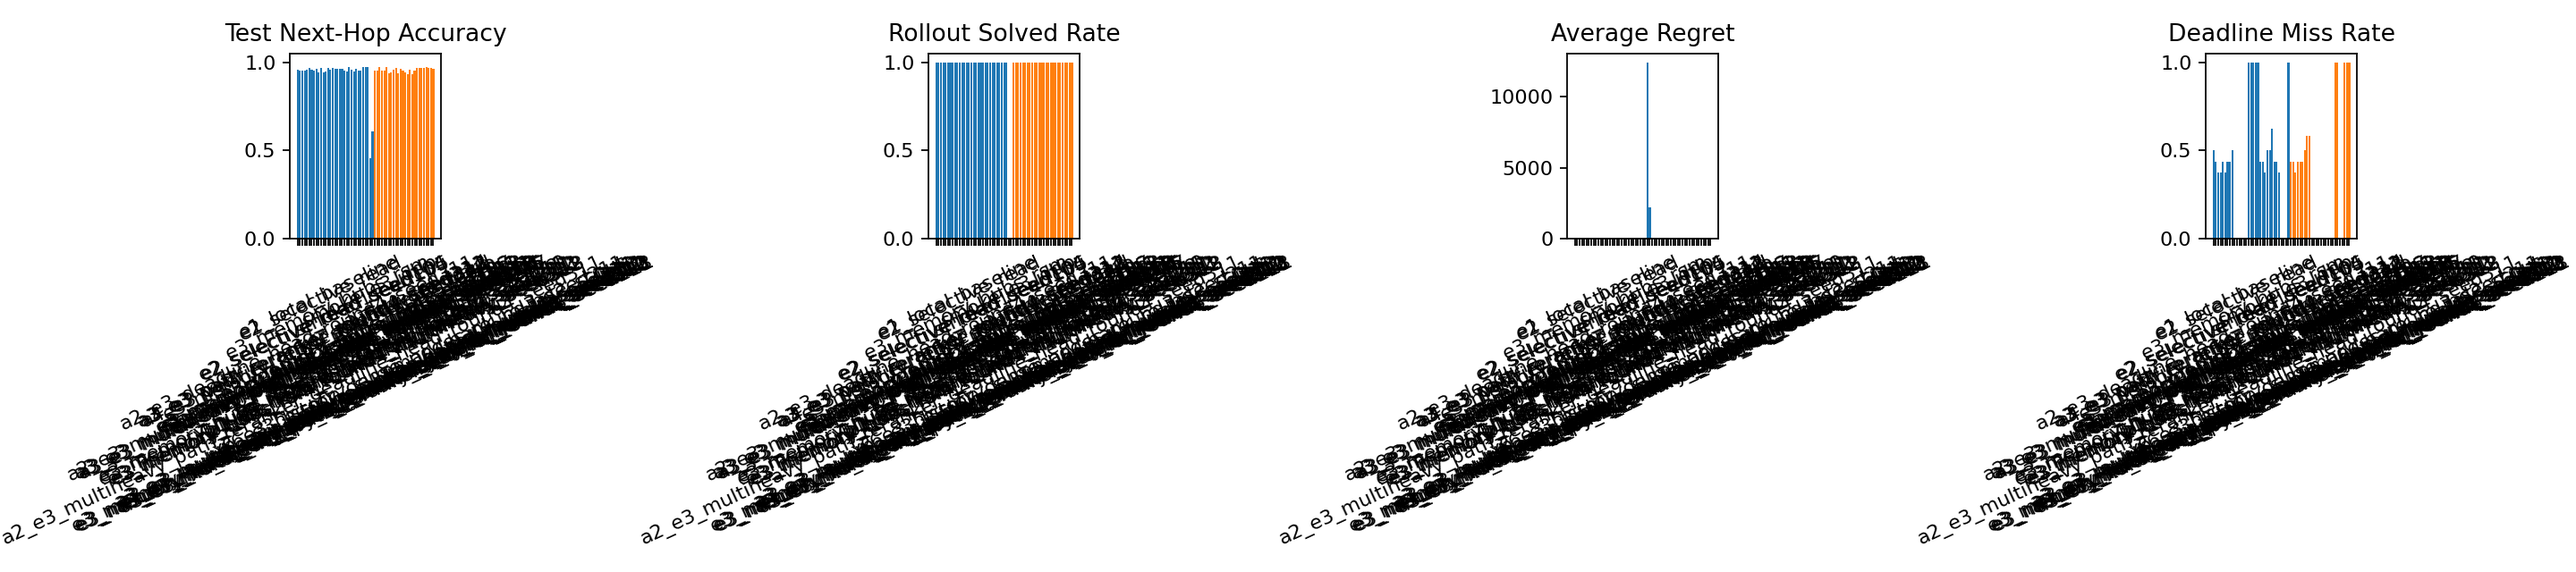
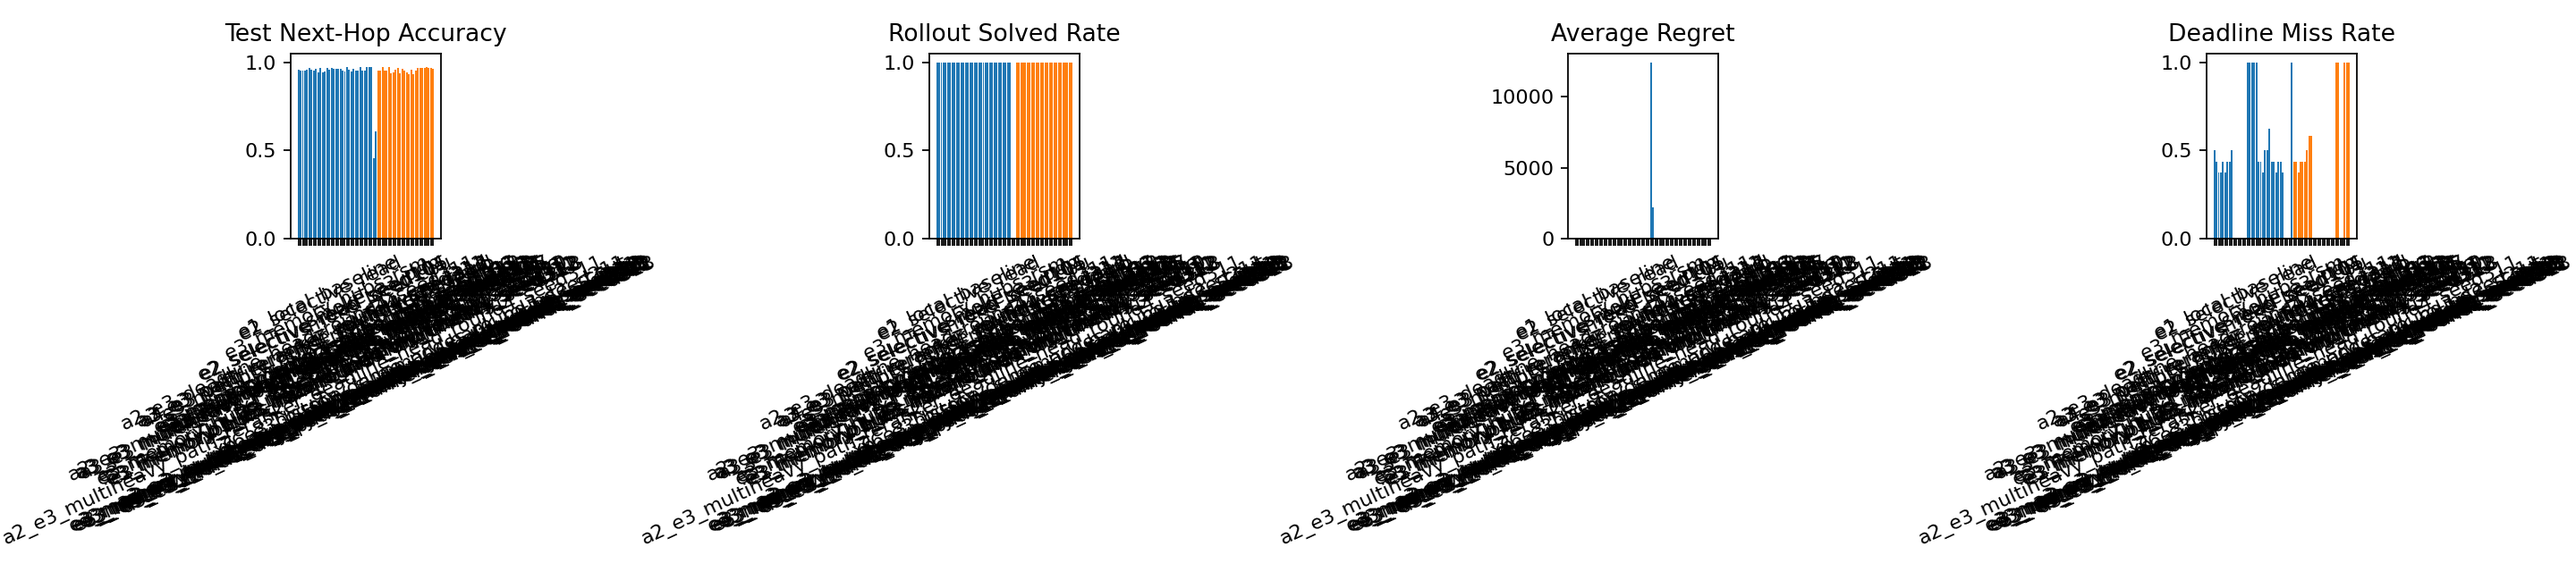
Reject tighter multiheavy training deadlines

diff --git a/scripts/plot_round5_results.py b/scripts/plot_round5_results.py
@@ -41,10 +41,10 @@ def _summary_frame(pairs: list[tuple[int, str, str]]) -> pd.DataFrame:
     return pd.concat([frame, means[frame.columns]], ignore_index=True)
 
 
-def _plot_compare(frame: pd.DataFrame, output_name: str) -> None:
+def _plot_compare(frame: pd.DataFrame, output_name: str, variant_label: str) -> None:
     plot_df = frame[frame["seed"] != "mean"].copy()
     baseline = plot_df[plot_df["variant"] == "Multiheavy"].reset_index(drop=True)
-    variant = plot_df[plot_df["variant"] == "TailSelect"].reset_index(drop=True)
+    variant = plot_df[plot_df["variant"] == variant_label].reset_index(drop=True)
 
     fig, axes = plt.subplots(1, 4, figsize=(18, 4))
     x = list(range(len(baseline)))
@@ -73,7 +73,7 @@ def _plot_compare(frame: pd.DataFrame, output_name: str) -> None:
     axes[3].set_xticks(x, labels)
     axes[3].set_ylim(0.0, 1.05)
 
-    axes[0].legend(["Multiheavy", "TailSelect"], loc="best")
+    axes[0].legend(["Multiheavy", variant_label], loc="best")
     fig.tight_layout()
     fig.savefig(PLOTS / output_name, dpi=160)
     plt.close(fig)
@@ -81,15 +81,29 @@ def _plot_compare(frame: pd.DataFrame, output_name: str) -> None:
 
 def main() -> None:
     PLOTS.mkdir(parents=True, exist_ok=True)
-    compare = _summary_frame(
+    tail_select = _summary_frame(
         [
             (311, "e3_memory_hubs_rsm_round4_multiheavy_seed311", "e3_memory_hubs_rsm_round5_multiheavy_tail_select_seed311"),
             (312, "e3_memory_hubs_rsm_round4_multiheavy_seed312", "e3_memory_hubs_rsm_round5_multiheavy_tail_select_seed312"),
             (313, "e3_memory_hubs_rsm_round4_multiheavy_seed313", "e3_memory_hubs_rsm_round5_multiheavy_tail_select_seed313"),
         ]
     )
-    compare.to_csv(PLOTS / "round5_multiheavy_tail_select_vs_multiheavy.csv", index=False)
-    _plot_compare(compare, "round5_multiheavy_tail_select_vs_multiheavy.png")
+    tail_select.to_csv(PLOTS / "round5_multiheavy_tail_select_vs_multiheavy.csv", index=False)
+    _plot_compare(tail_select, "round5_multiheavy_tail_select_vs_multiheavy.png", "TailSelect")
+
+    tight_train = _summary_frame(
+        [
+            (311, "e3_memory_hubs_rsm_round4_multiheavy_seed311", "e3_memory_hubs_rsm_round5_multiheavy_tighttrain_seed311"),
+            (312, "e3_memory_hubs_rsm_round4_multiheavy_seed312", "e3_memory_hubs_rsm_round5_multiheavy_tighttrain_seed312"),
+            (313, "e3_memory_hubs_rsm_round4_multiheavy_seed313", "e3_memory_hubs_rsm_round5_multiheavy_tighttrain_seed313"),
+        ]
+    )
+    tight_train["variant"] = tight_train["variant"].replace({"TailSelect": "TightTrain"})
+    tight_train.loc[(tight_train["seed"] == "mean") & (tight_train["variant"] == "TightTrain"), "experiment"] = (
+        "TightTrain-mean"
+    )
+    tight_train.to_csv(PLOTS / "round5_multiheavy_tighttrain_vs_multiheavy.csv", index=False)
+    _plot_compare(tight_train, "round5_multiheavy_tighttrain_vs_multiheavy.png", "TightTrain")
 
 
 if __name__ == "__main__":

diff --git a/src/gnn3/train/config.py b/src/gnn3/train/config.py
@@ -21,6 +21,9 @@ class BenchmarkConfig:
     val_seed_offset: int = 10_000
     test_seed_offset: int = 20_000
     hidden_corridor: HiddenCorridorConfig = field(default_factory=HiddenCorridorConfig)
+    train_hidden_corridor_overrides: dict[str, Any] = field(default_factory=dict)
+    val_hidden_corridor_overrides: dict[str, Any] = field(default_factory=dict)
+    test_hidden_corridor_overrides: dict[str, Any] = field(default_factory=dict)
 
 
 @dataclass(frozen=True)
@@ -79,7 +82,22 @@ def _benchmark_from_dict(data: dict[str, Any]) -> BenchmarkConfig:
         val_seed_offset=int(data.get("val_seed_offset", 10_000)),
         test_seed_offset=int(data.get("test_seed_offset", 20_000)),
         hidden_corridor=hidden_corridor,
+        train_hidden_corridor_overrides=_hidden_corridor_overrides_from_dict(data.get("train_hidden_corridor_overrides", {})),
+        val_hidden_corridor_overrides=_hidden_corridor_overrides_from_dict(data.get("val_hidden_corridor_overrides", {})),
+        test_hidden_corridor_overrides=_hidden_corridor_overrides_from_dict(data.get("test_hidden_corridor_overrides", {})),
     )
+
+
+def _hidden_corridor_overrides_from_dict(data: dict[str, Any]) -> dict[str, Any]:
+    overrides: dict[str, Any] = {}
+    for key, value in data.items():
+        if key == "seed":
+            continue
+        if isinstance(value, list):
+            overrides[key] = tuple(value)
+        else:
+            overrides[key] = value
+    return overrides
 
 
 def hidden_corridor_config_for_split(benchmark: BenchmarkConfig, split: str) -> HiddenCorridorConfig:
@@ -88,11 +106,17 @@ def hidden_corridor_config_for_split(benchmark: BenchmarkConfig, split: str) -> 
         "val": benchmark.val_seed_offset,
         "test": benchmark.test_seed_offset,
     }
+    split_overrides = {
+        "train": benchmark.train_hidden_corridor_overrides,
+        "val": benchmark.val_hidden_corridor_overrides,
+        "test": benchmark.test_hidden_corridor_overrides,
+    }
     if split not in split_offsets:
         raise ValueError(f"Unknown benchmark split: {split}")
     return replace(
         benchmark.hidden_corridor,
         seed=benchmark.hidden_corridor.seed + split_offsets[split],
+        **split_overrides[split],
     )
 
 

diff --git a/tests/test_config_split_overrides.py b/tests/test_config_split_overrides.py
@@ -1,0 +1,32 @@
+from __future__ import annotations
+
+from gnn3.data.hidden_corridor import HiddenCorridorConfig
+from gnn3.train.config import BenchmarkConfig, hidden_corridor_config_for_split
+
+
+def test_hidden_corridor_split_overrides_apply_only_to_requested_split() -> None:
+    benchmark = BenchmarkConfig(
+        hidden_corridor=HiddenCorridorConfig(
+            seed=311,
+            deadline_mode="oracle_calibrated",
+            deadline_slack_ratio_range=(0.05, 0.15),
+            deadline_slack_abs_range=(0.25, 1.0),
+        ),
+        train_hidden_corridor_overrides={
+            "deadline_slack_ratio_range": (0.02, 0.08),
+            "deadline_slack_abs_range": (0.1, 0.5),
+        },
+    )
+
+    train_cfg = hidden_corridor_config_for_split(benchmark, "train")
+    val_cfg = hidden_corridor_config_for_split(benchmark, "val")
+    test_cfg = hidden_corridor_config_for_split(benchmark, "test")
+
+    assert train_cfg.seed == 311
+    assert val_cfg.seed == 10_311
+    assert test_cfg.seed == 20_311
+
+    assert train_cfg.deadline_slack_ratio_range == (0.02, 0.08)
+    assert train_cfg.deadline_slack_abs_range == (0.1, 0.5)
+    assert val_cfg.deadline_slack_ratio_range == (0.05, 0.15)
+    assert test_cfg.deadline_slack_abs_range == (0.25, 1.0)

diff --git a/reports/continuation_report_round5.md b/reports/continuation_report_round5.md
@@ -2,20 +2,28 @@
 
 ## Scope
 
-This pass tested the smallest non-reranker exploit change suggested by round four: keep the robust plain `multiheavy` recipe fixed, but change checkpoint selection to weight tail regret and deadline behavior more heavily than solved rate or local decision accuracy.
+This pass tested two bounded non-reranker exploit changes on top of the robust plain `multiheavy` recipe:
+
+1. risk-biased checkpoint selection
+2. tighter training-only oracle-calibrated deadlines with fixed validation and test manifests
 
 Key artifacts:
 
 - [round5_multiheavy_tail_select_vs_multiheavy.csv](/home/catid/gnn3/reports/plots/round5_multiheavy_tail_select_vs_multiheavy.csv)
 - [round5_multiheavy_tail_select_vs_multiheavy.png](/home/catid/gnn3/reports/plots/round5_multiheavy_tail_select_vs_multiheavy.png)
+- [round5_multiheavy_tighttrain_vs_multiheavy.csv](/home/catid/gnn3/reports/plots/round5_multiheavy_tighttrain_vs_multiheavy.csv)
+- [round5_multiheavy_tighttrain_vs_multiheavy.png](/home/catid/gnn3/reports/plots/round5_multiheavy_tighttrain_vs_multiheavy.png)
 - [experiment_summary.csv](/home/catid/gnn3/reports/plots/experiment_summary.csv)
 
 Implementation changes:
 
 - configurable checkpoint-selection weights in [config.py](/home/catid/gnn3/src/gnn3/train/config.py)
 - selection-score wiring in [trainer.py](/home/catid/gnn3/src/gnn3/train/trainer.py)
+- split-specific train/val/test hidden-corridor overrides in [config.py](/home/catid/gnn3/src/gnn3/train/config.py)
 - matched round-five configs in [e3_memory_hubs_rsm_round5_multiheavy_tail_select_seed311.yaml](/home/catid/gnn3/configs/experiments/e3_memory_hubs_rsm_round5_multiheavy_tail_select_seed311.yaml), [e3_memory_hubs_rsm_round5_multiheavy_tail_select_seed312.yaml](/home/catid/gnn3/configs/experiments/e3_memory_hubs_rsm_round5_multiheavy_tail_select_seed312.yaml), and [e3_memory_hubs_rsm_round5_multiheavy_tail_select_seed313.yaml](/home/catid/gnn3/configs/experiments/e3_memory_hubs_rsm_round5_multiheavy_tail_select_seed313.yaml)
+- matched tighter-train configs in [e3_memory_hubs_rsm_round5_multiheavy_tighttrain_seed311.yaml](/home/catid/gnn3/configs/experiments/e3_memory_hubs_rsm_round5_multiheavy_tighttrain_seed311.yaml), [e3_memory_hubs_rsm_round5_multiheavy_tighttrain_seed312.yaml](/home/catid/gnn3/configs/experiments/e3_memory_hubs_rsm_round5_multiheavy_tighttrain_seed312.yaml), and [e3_memory_hubs_rsm_round5_multiheavy_tighttrain_seed313.yaml](/home/catid/gnn3/configs/experiments/e3_memory_hubs_rsm_round5_multiheavy_tighttrain_seed313.yaml)
 - selection regression tests in [test_trainer_selection.py](/home/catid/gnn3/tests/test_trainer_selection.py)
+- split-override regression coverage in [test_config_split_overrides.py](/home/catid/gnn3/tests/test_config_split_overrides.py)
 
 ## Matched Result
 
@@ -45,14 +53,45 @@ What did not change:
 
 - the held-out test rollout stayed identical to the existing `multiheavy` baseline on all three matched seeds
 
+## Tighter Training-Deadline Scout
+
+Matched three-seed comparison against the same plain `multiheavy` baseline, but with tighter `oracle_calibrated` deadlines applied only to the training split:
+
+- multiheavy mean next-hop accuracy: `95.82%`
+- tight-train mean next-hop accuracy: `96.06%`
+- multiheavy mean rollout next-hop accuracy: `95.52%`
+- tight-train mean rollout next-hop accuracy: `95.52%`
+- multiheavy mean regret: `1.32`
+- tight-train mean regret: `1.32`
+- multiheavy mean p95 regret: `4.77`
+- tight-train mean p95 regret: `4.77`
+- multiheavy mean deadline miss rate: `41.7%`
+- tight-train mean deadline miss rate: `41.7%`
+
+What changed:
+
+- train-manifest hashes changed on every seed, proving the training distribution really was different
+- validation/test manifest hashes stayed fixed, preserving the shared comparison contract
+- seed `311` found a stronger validation checkpoint on regret and p95 than the baseline
+
+What did not change:
+
+- the held-out test rollout stayed identical to the existing `multiheavy` baseline on all three matched seeds
+
+Take:
+
+- making training deadlines tighter without changing the evaluation manifests is not enough to move the learned policy on held-out rollout
+- the next exploit lever must be stronger than train-distribution tightening alone
+
 ## Decision
 
-This is a clean negative result.
+Both round-five exploit changes are clean negatives.
 
-Checkpoint-selection policy alone is not the next leverage point for this repo. It can move `selected_epoch`, but it does not move the actual held-out rollout once the current plain `multiheavy` model has trained.
+Checkpoint-selection policy alone is not the next leverage point for this repo. Tightening the training-only deadline contract also is not enough on its own. Both changes moved internal training behavior, but neither changed the actual held-out rollout once the current plain `multiheavy` model had trained.
 
 Updated recommendation:
 
 1. Keep plain `multiheavy` as the exploit default.
 2. Do not spend more time on rerankers or selector-only tuning for now.
-3. If exploit work continues, the next lever must change the learned policy or the training signal itself, not only checkpoint ranking.
+3. Do not spend another cycle on train-only deadline tightening by itself; it changed train manifests but not held-out rollout.
+4. If exploit work continues, the next lever must change the learned policy or loss coupling more directly than checkpoint ranking or train-distribution tightening alone.

diff --git a/reports/portfolio_balance.md b/reports/portfolio_balance.md
@@ -49,14 +49,15 @@
 | B2-R4-verifier-reranker-ood-seed313 | explore | Run the verifier-filter reranker on the seed313 rebalanced OOD suites after matched confirmation. | 0.04 | 0.0166 | completed | Seed313 OOD improved branching3 and heavy_dynamic strongly and slightly improved deeper_packets6 regret, cutting overall miss from 95.8% to 45.8%. |
 | B2-R4-conditional-verifier-policy | explore | Test a shared-config deployment rule that keeps plain multiheavy on low-risk suites and switches to verifier-filter reranking on high-risk traffic/depth regimes. | 0.10 | 0.0908 | completed | Negative shared-suite result: matched runs fell back to multiheavy by design, and shared OOD mean regret worsened from 6.45 to 6.85 with no miss-rate gain. |
 | A5-R5-tail-select | exploit | Test whether risk-biased checkpoint selection alone can improve plain multiheavy tail regret and deadline behavior without changing the learned policy. | 0.32 | 0.3151 | completed | Negative matched 3-seed result: selected epochs changed to 3/2/2, but all held-out rollout metrics matched plain multiheavy exactly. |
+| A6-R5-tighttrain | exploit | Test whether tighter training-only oracle-calibrated deadlines improve plain multiheavy tail regret and miss rate while holding validation/test manifests fixed. | 0.25 | 0.2348 | completed | Negative matched 3-seed result: train-manifest hashes changed, but all held-out rollout metrics matched plain multiheavy exactly. |
 
 Current cumulative GPU-hours:
 
 - Round-four-plus-follow-up exploit: `1.8310`
 - Round-four-plus-follow-up explore: `0.8678`
 - Round-four-plus-follow-up split: `67.8% / 32.2%`
-- Round-five exploit-only batch: `0.3151`
+- Round-five exploit-only batch: `0.5499`
 - Round-five split: `100.0% / 0.0%`
-- Overall exploit: `3.4148`
+- Overall exploit: `3.6496`
 - Overall explore: `2.0475`
-- Overall split: `62.5% / 37.5%`
+- Overall split: `64.1% / 35.9%`

diff --git a/reports/next_best_actions.md b/reports/next_best_actions.md
@@ -7,7 +7,8 @@
 5. Preserve the rebalanced `oracle_calibrated` deadline suites and the split-manifest discipline. Old corrected deadline suites remain diagnostic-only because the oracle itself misses them.
 6. Keep `detach_warmup` in every shortlist. That remains the strongest causal architectural requirement in the repo.
 7. Do not spend another cycle on checkpoint-selection tuning alone. The matched round-five tail-select scout chose earlier checkpoints on all three seeds, but every held-out rollout stayed identical to plain multiheavy.
-8. The next highest-value batch is:
+8. Do not spend another cycle on tighter training-only deadlines alone. The matched three-seed tight-train scout changed the train manifests but still matched plain multiheavy exactly on held-out rollout.
+9. The next highest-value batch is:
    first, keep plain multiheavy as the exploit default;
-   second, focus on non-reranker changes that alter the learned policy or training signal on the shared suites;
+   second, focus on non-reranker changes that alter the learned policy or loss coupling on the shared suites;
    third, revisit auxiliary heads only if they move held-out rollout on plain multiheavy rather than calibration metrics alone.
